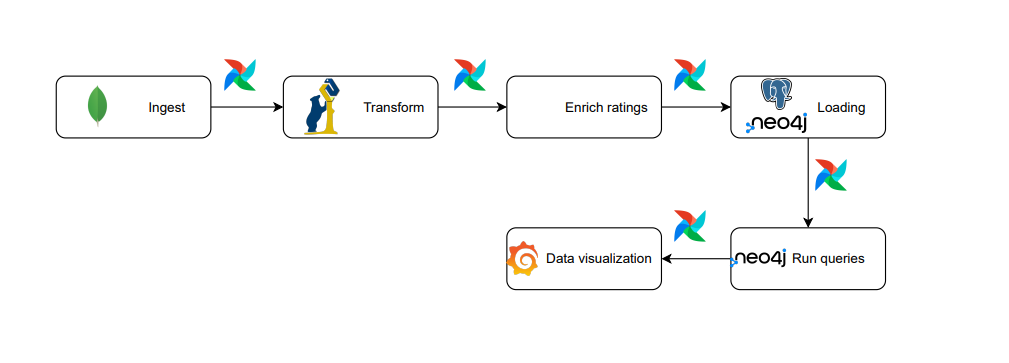
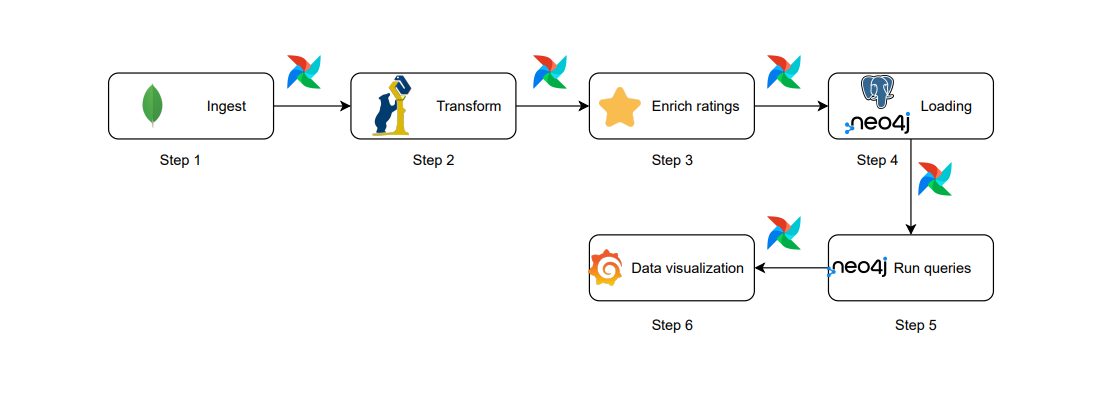
fix DataPipeDes img: add steps

Changed region(s): [[0.0614, 0.1212, 0.891, 0.7576], [0.4916, 0.7879, 0.6452, 0.8182], [0.7374, 0.7879, 0.8603, 0.8182]]

diff --git a/README.md b/README.md
@@ -73,6 +73,13 @@ Data pipeline design
 
 
 > <img src="others/images/dataPipeDes.png">
+The process of the data will be work on different steps :
+* Step 1 : extracting data from different sources using MongoDB.
+* Step 2 : Transforming and wrangling data using Pandas.
+* Step 3 : Enrich our datasets with movie ratings
+* Step 4 : Loading and saving the new dataset in Postgres/Neo4j.
+* Step 5 : Running queries to answer the questions previously asked.
+* Step 6 : Data visualization using Grafana/Jupyter notebook.
 ---
 Data model 
 ---
